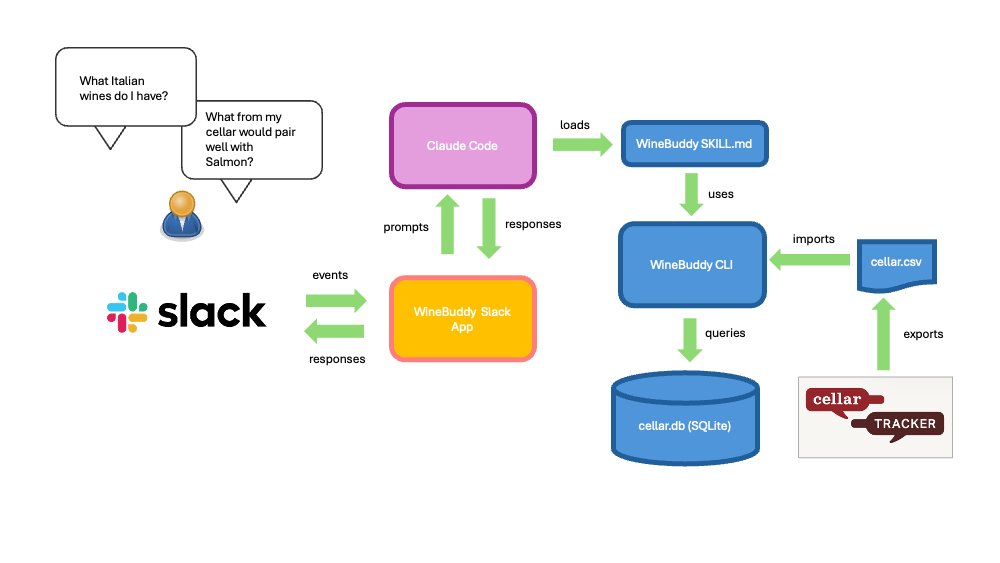
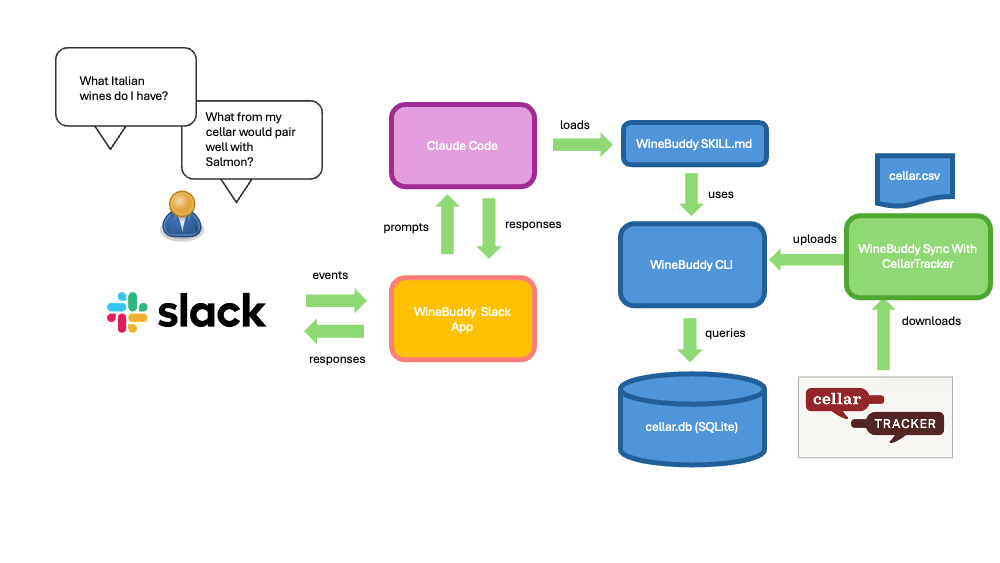
Updated architecture

Changed region(s): [[0.806, 0.2718, 1.0, 0.6039], [0.589, 0.6341, 0.775, 0.8153], [0.651, 0.8153, 0.744, 0.8455]]

diff --git a/README.md b/README.md
@@ -94,3 +94,5 @@ Slack (Socket Mode) → main.py → Claude CLI → /winebuddy skill → Response
 The app uses Slack's Socket Mode for real-time communication without needing a public HTTP endpoint.
 
 The `/winebuddy` skill handles wine cellar queries via Claude. See the [winebuddy repository](https://github.com/jasondchambers/winebuddy) for skill installation and configuration.
+The cellar inventory is still managed by the CellarTracker app. Winebuddy is kept in sync periodically by 
+[winebuddy-sync-with-cellartracker](https://github.com/jasondchambers/winebuddy-sync-with-cellartracker)
